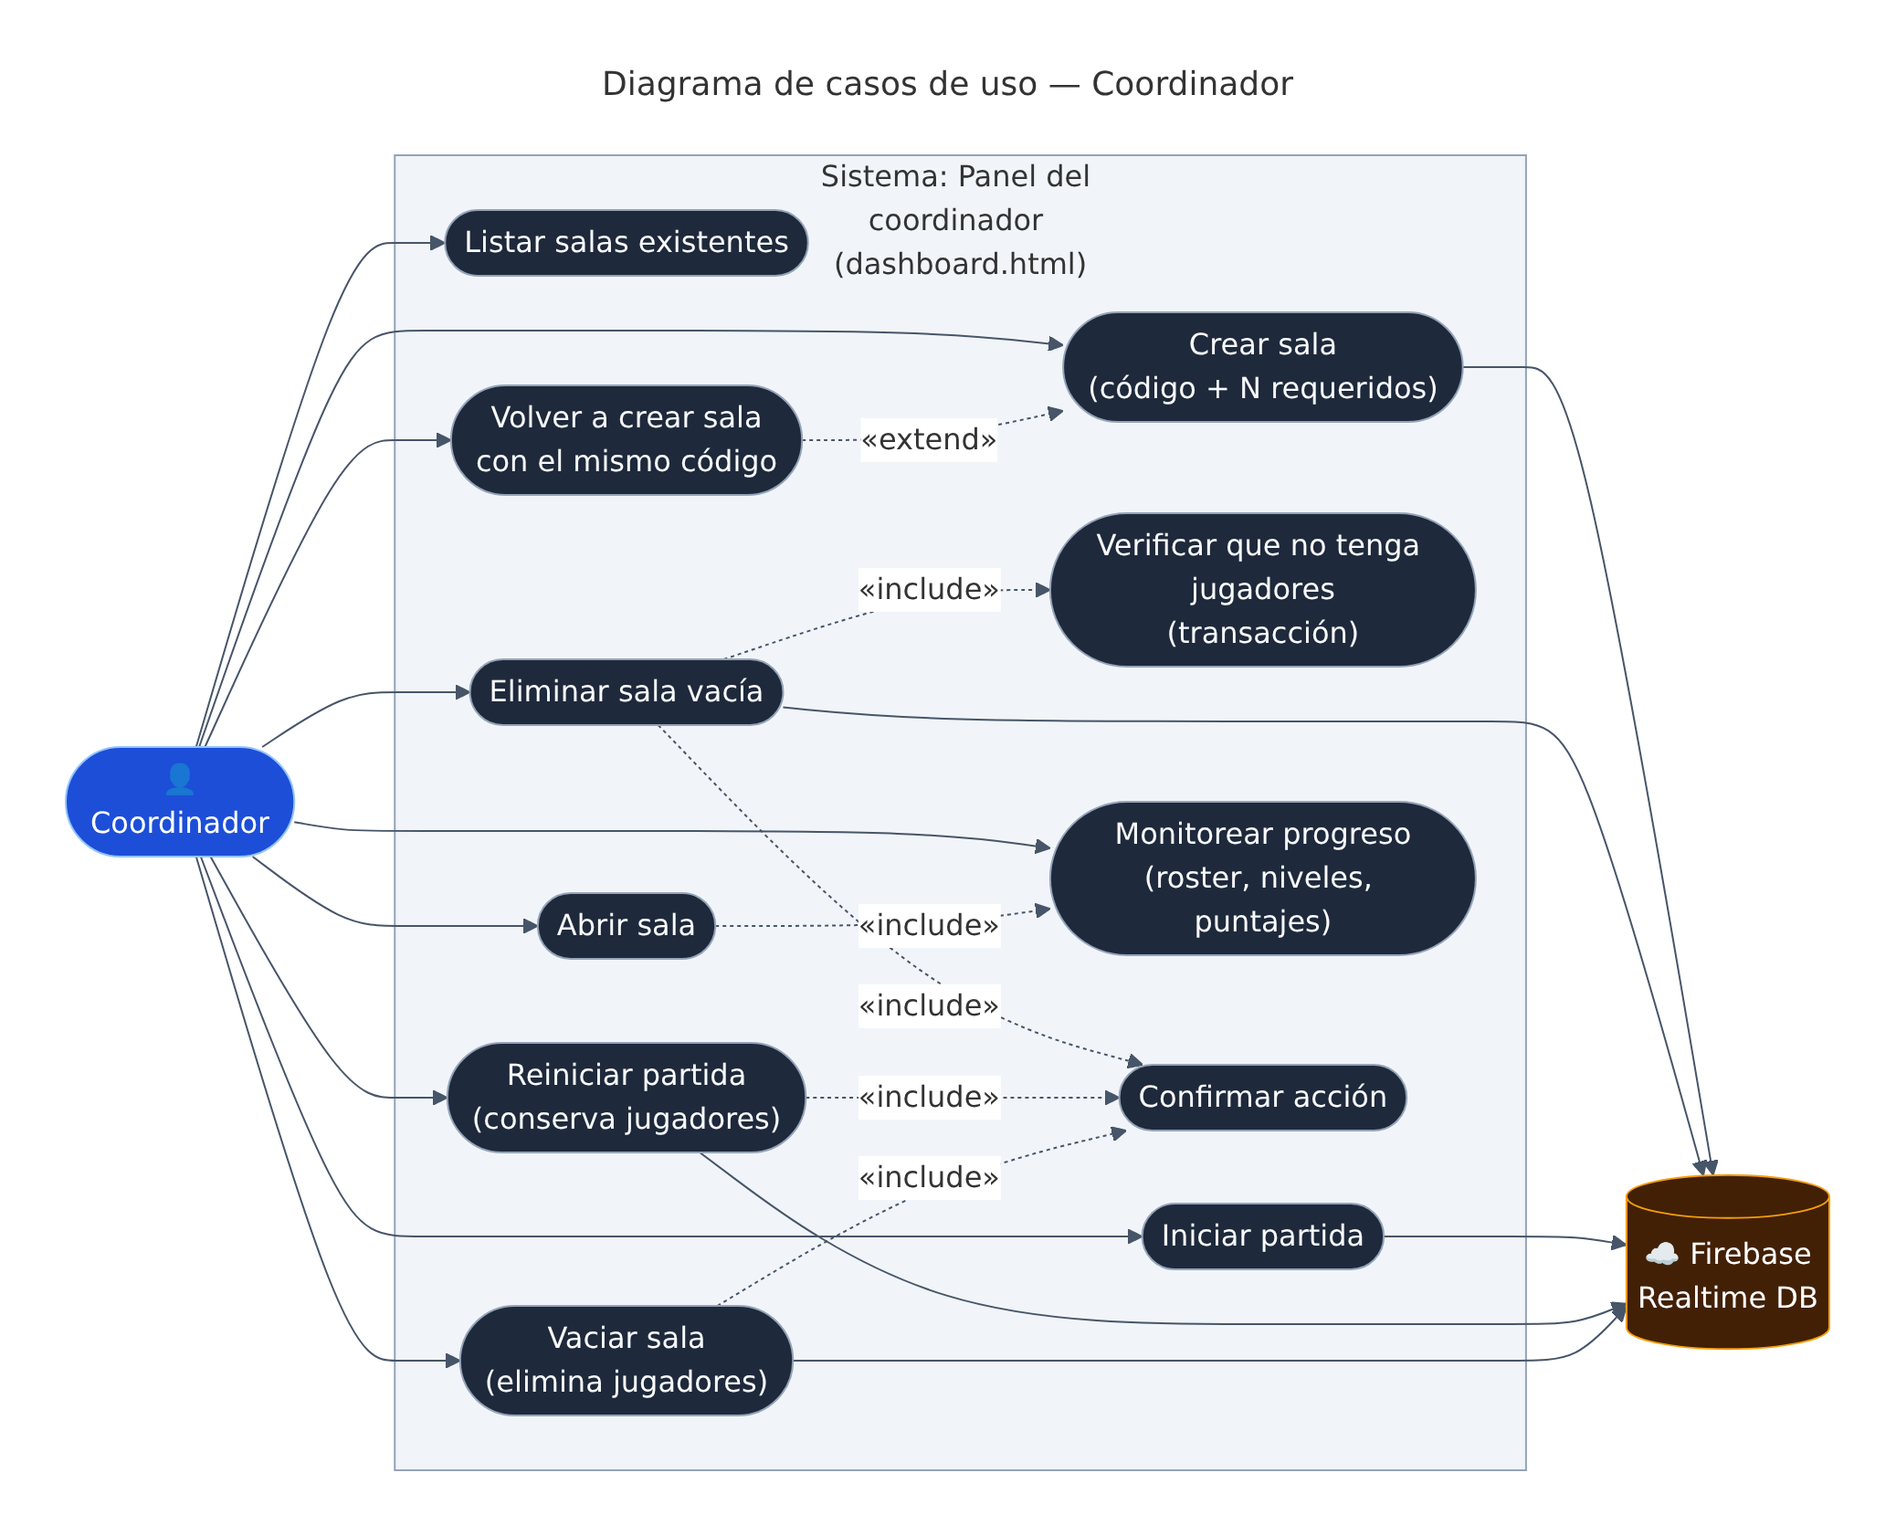
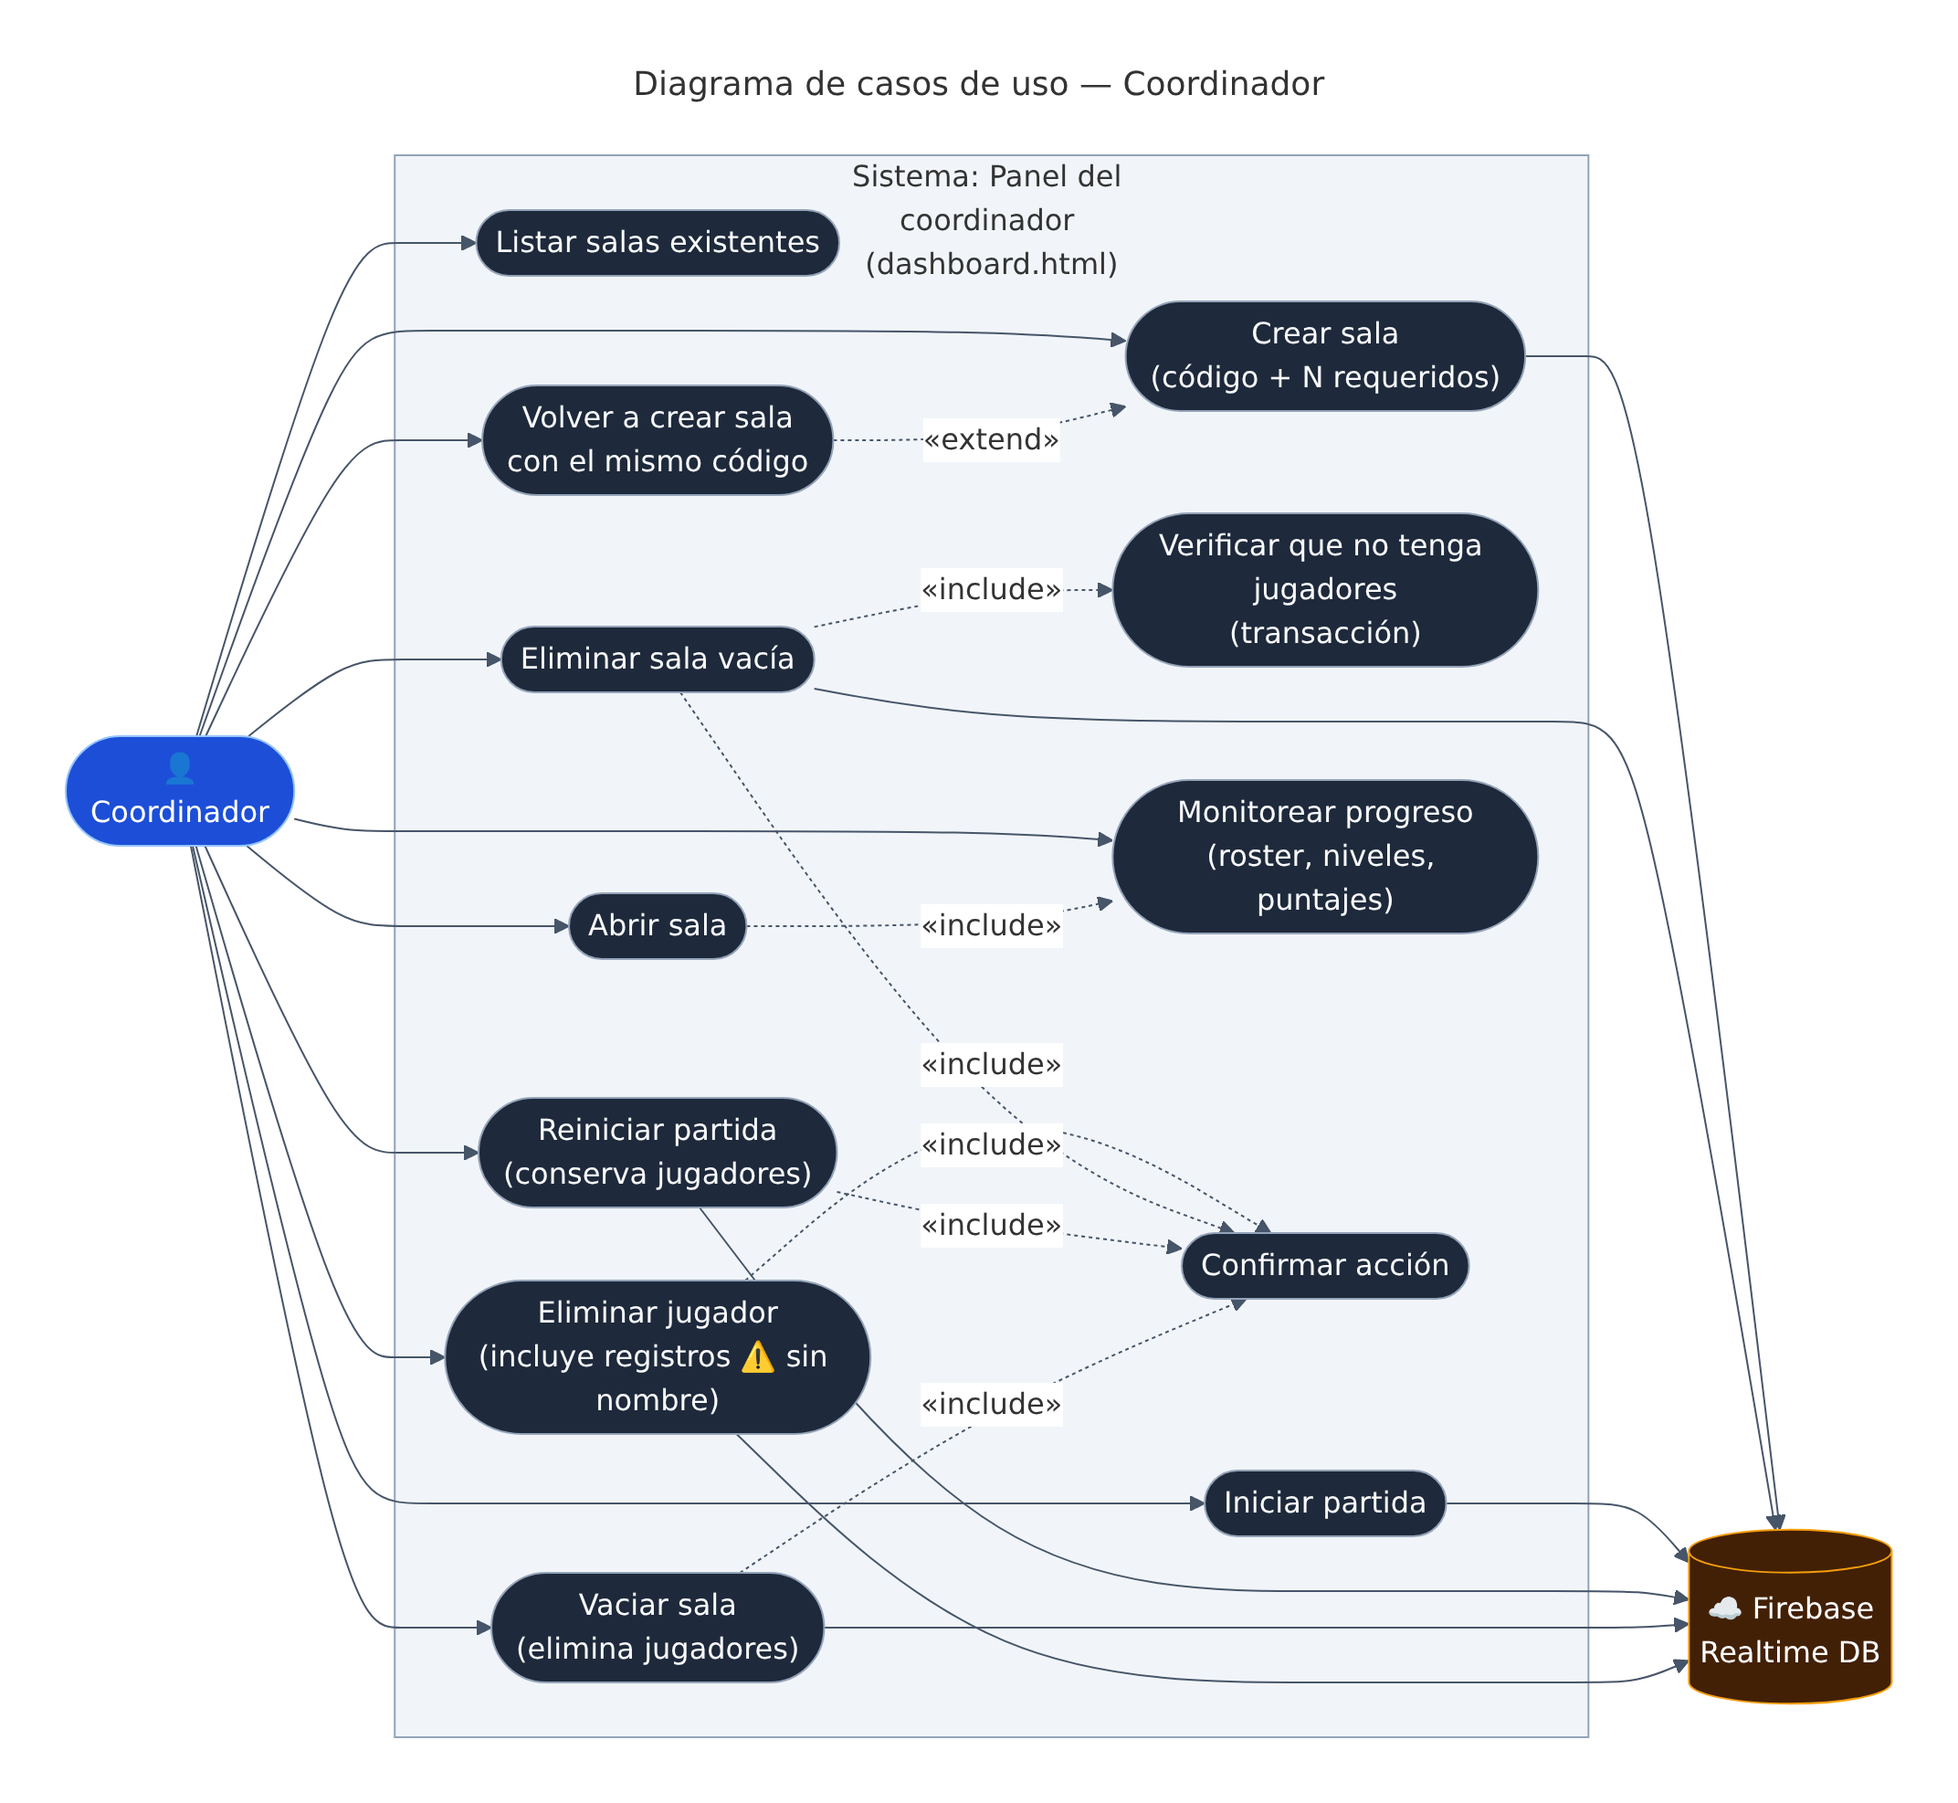
Fix ghost players and add player management to the dashboard
- Root cause: the onDisconnect -> connected=false write stayed armed after a
  player was removed (e.g. 'Vaciar sala'), so closing that tab re-created
  players/{id} as {connected:false}; a refresh with a stale session could do
  the same via markConnected.
- Presence is now armed (trackPresence) only after the live room data shows
  the player exists, re-armed after a network drop, and cancelled
  (stopPresence) when the player or room disappears.
- database.rules.json rejects player records without a non-empty name.
- Dashboard roster: connection column, per-player delete button, and
  nameless records flagged as 'sin nombre'.
- Docs: decision #16, dashboard section, README, use-case diagram.

Claude-Session: https://claude.ai/code/session_01GpHXZPyw9LSKMeBCVETu6X

diff --git a/js/dashboard.js b/js/dashboard.js
@@ -6,7 +6,7 @@ import { db, isConfigured } from "./firebase.js";
 import {
   ref, update, get, remove, runTransaction
 } from "https://www.gstatic.com/firebasejs/10.7.1/firebase-database.js";
-import { createRoom, deleteRoomIfEmpty, normalizeRoomId } from "./room.js";
+import { createRoom, deleteRoomIfEmpty, removePlayer, normalizeRoomId } from "./room.js";
 import { subscribeRoom, subscribeRooms, everyoneCompleted } from "./sync.js";
 import { saveHostRoom, loadHostRoom, clearHostRoom } from "./session.js";
 import { showScreen, toast, $ } from "./ui.js";
@@ -218,17 +218,23 @@ function render(data) {
   deleteBtn.disabled = total > 0;
   deleteBtn.title = total > 0 ? "Vaciá la sala antes de eliminarla" : "";
 
-  renderRoster(list);
+  renderRoster(players);
 }
 
-function renderRoster(list) {
+function renderRoster(players) {
   const tbody = $("#dash-roster");
   tbody.innerHTML = "";
-  const sorted = [...list].sort((a, b) => (a.joined_at || 0) - (b.joined_at || 0));
+  const sorted = Object.entries(players).sort(
+    ([, a], [, b]) => (a.joined_at || 0) - (b.joined_at || 0)
+  );
 
-  sorted.forEach((p, i) => {
+  sorted.forEach(([pid, p], i) => {
     const tr = document.createElement("tr");
     if (p.connected === false) tr.classList.add("offline");
+    // A record without a name never went through registration (e.g. a stray
+    // write to a removed player): flag it so the coordinator can delete it.
+    const ghost = !p.name;
+    if (ghost) tr.classList.add("ghost");
 
     let detail = "";
     if (p.level_2_game === "serif") detail = `serif · ${p.level_2_score || 0} pts`;
@@ -236,13 +242,32 @@ function renderRoster(list) {
 
     tr.innerHTML = `
       <td>${i + 1}</td>
-      <td>${escapeHtml(p.name || "")}</td>
+      <td>${ghost ? "⚠ <em>sin nombre</em>" : escapeHtml(p.name)}</td>
+      <td title="${p.connected === false ? "Desconectado" : "Conectado"}">${p.connected === false ? "⚫" : "🟢"}</td>
       <td>${p.level_1_completed ? "✅" : "⏳"}</td>
       <td>${p.level_2_completed ? "✅" : "⏳"}</td>
       <td>${p.level_2_game || "—"}</td>
-      <td>${detail || "—"}</td>`;
+      <td>${detail || "—"}</td>
+      <td><button class="btn danger roster-del" title="Eliminar jugador">🗑</button></td>`;
+    tr.querySelector(".roster-del").addEventListener("click", () =>
+      deletePlayer(pid, ghost ? "(sin nombre)" : p.name)
+    );
     tbody.appendChild(tr);
   });
+}
+
+async function deletePlayer(pid, label) {
+  if (!state.roomId) return;
+  const ok = window.confirm(
+    `¿Eliminar al jugador ${label} de la sala ${state.roomId}?\n\nSu celular vuelve a la pantalla de registro y puede unirse de nuevo mientras la partida no haya empezado.`
+  );
+  if (!ok) return;
+  try {
+    await removePlayer(state.roomId, pid);
+    toast(`Jugador ${label} eliminado`, "success");
+  } catch (err) {
+    toast("Error al eliminar el jugador: " + err.message, "error");
+  }
 }
 
 function escapeHtml(str) {

diff --git a/js/room.js b/js/room.js
@@ -1,7 +1,7 @@
 // Room + player data operations against Firebase Realtime Database.
 import { db } from "./firebase.js";
 import {
-  ref, set, get, update, onDisconnect, serverTimestamp, runTransaction
+  ref, set, get, update, remove, onDisconnect, serverTimestamp, runTransaction
 } from "https://www.gstatic.com/firebasejs/10.7.1/firebase-database.js";
 import { randomId, saveSession } from "./session.js";
 
@@ -89,18 +89,32 @@ export async function joinRoom(roomId, rawName) {
     last_changed: serverTimestamp()
   });
 
-  // Presence: flag the player as disconnected if the socket drops.
-  onDisconnect(ref(db, `rooms/${roomId}/players/${playerId}/connected`)).set(false);
-
+  // Presence (connected + onDisconnect) is armed by the app once the live room
+  // data confirms this player exists — see trackPresence().
   saveSession({ roomId, playerId, name });
   return { ok: true, playerId };
 }
 
-export async function markConnected(roomId, playerId) {
-  await update(ref(db, `rooms/${roomId}/players/${playerId}`), {
-    connected: true,
-    last_changed: serverTimestamp()
-  });
+// Presence: marks the player connected and arms onDisconnect -> connected=false.
+// Only call it when the live room data shows the player exists: writing to a
+// removed player would re-create it as a nameless "ghost" record (the
+// database rules also reject player records without a name).
+export async function trackPresence(roomId, playerId) {
+  const playerRef = ref(db, `rooms/${roomId}/players/${playerId}`);
+  await onDisconnect(ref(db, `rooms/${roomId}/players/${playerId}/connected`)).set(false);
+  await update(playerRef, { connected: true, last_changed: serverTimestamp() });
+}
+
+// Cancels the pending onDisconnect write. Used when the player was removed from
+// the room, so closing the tab later does not re-create a ghost record.
+export async function stopPresence(roomId, playerId) {
+  await onDisconnect(ref(db, `rooms/${roomId}/players/${playerId}/connected`)).cancel();
+}
+
+// Coordinator: removes one player from the room. Their device returns to the
+// registration screen.
+export async function removePlayer(roomId, playerId) {
+  await remove(ref(db, `rooms/${roomId}/players/${playerId}`));
 }
 
 // FR-2.3 / 7.3.3: persist an individual level completion.

diff --git a/js/app.js b/js/app.js
@@ -5,7 +5,7 @@
 import { isConfigured } from "./firebase.js";
 import { subscribeRoom, activePlayers, everyoneCompleted } from "./sync.js";
 import {
-  joinRoom, markLevelComplete, completeLevel1, markConnected, normalizeRoomId
+  joinRoom, markLevelComplete, completeLevel1, trackPresence, stopPresence, normalizeRoomId
 } from "./room.js";
 import { loadSession, clearSession } from "./session.js";
 import { showScreen, toast, $ } from "./ui.js";
@@ -28,6 +28,7 @@ const state = {
   level2NeedsRestart: false,
   gameStartedSeen: false,
   assigning: false,
+  presenceFor: null, // "roomId/playerId" whose presence is currently armed
   unsub: null
 };
 
@@ -43,7 +44,6 @@ function boot() {
     state.roomId = session.roomId;
     state.playerId = session.playerId;
     state.name = session.name;
-    markConnected(state.roomId, state.playerId).catch(() => {});
     startSubscription();
   } else {
     showScreen("screen-register");
@@ -100,6 +100,8 @@ function startSubscription() {
 
 function onData(data) {
   if (!data) {
+    stopPresence(state.roomId, state.playerId).catch(() => {});
+    state.presenceFor = null;
     clearSession();
     toast("La sala no existe o fue cerrada", "error");
     showScreen("screen-register");
@@ -109,10 +111,22 @@ function onData(data) {
 
   const me = (data.players && data.players[state.playerId]) || null;
   if (!me) {
+    // Removed by the coordinator: cancel the pending onDisconnect write so it
+    // cannot re-create this player as a nameless record.
+    stopPresence(state.roomId, state.playerId).catch(() => {});
+    state.presenceFor = null;
     clearSession();
     toast("Tu registro ya no está en la sala", "error");
     showScreen("screen-register");
     return;
+  }
+
+  // Arm presence once per session, and again if a network drop already fired
+  // onDisconnect (connected=false) while this tab kept running.
+  const presenceKey = state.roomId + "/" + state.playerId;
+  if (state.presenceFor !== presenceKey || me.connected === false) {
+    state.presenceFor = presenceKey;
+    trackPresence(state.roomId, state.playerId).catch(() => {});
   }
 
   updateHeader(me);

diff --git a/dashboard.html b/dashboard.html
@@ -63,10 +63,12 @@
             <tr>
               <th>#</th>
               <th>Nombre</th>
+              <th>Conexión</th>
               <th>L1</th>
               <th>L2</th>
               <th>Juego</th>
               <th>Detalle</th>
+              <th></th>
             </tr>
           </thead>
           <tbody id="dash-roster"></tbody>

diff --git a/css/dashboard.css b/css/dashboard.css
@@ -23,3 +23,5 @@
 .room-item .row { gap: 8px; }
 .room-item .btn { min-height: 40px; padding: 8px 12px; }
 .room-empty { color: var(--muted); font-size: 0.9rem; }
+.roster-del { min-height: 34px; padding: 4px 10px; }
+.roster tr.ghost td { color: var(--warning); }

diff --git a/system_design_architecture.md b/system_design_architecture.md
@@ -79,7 +79,7 @@ The structure is flat and lightweight to allow low-latency real-time synchroniza
 | `level_2_game` | Assigned mini-game: `"serif"` ("I Shot The Serif") or `"vector"` ("Shape Type"). Self-assigned by the client when it clears Level 1 (section 7.1). |
 | `level_2_score` | Score accumulated in "I Shot The Serif" (+100 per correct serif). |
 | `level_2_precision` | Precision achieved in "Shape Type" (≥ 85% required to pass). |
-| `connected` | Presence flag maintained via `onDisconnect()`; `false` when the device drops offline. |
+| `connected` | Presence flag maintained via `onDisconnect()`; `false` when the device drops offline. Armed by the client only after the live data confirms the player exists, re-armed if a network drop already set it to `false`, and cancelled when the player is removed (decision #16). |
 | `last_changed` | Timestamp (epoch) of the player's last update. |
 
 > **Note:** Use a single timestamp format everywhere (epoch via `ServerValue.TIMESTAMP` is recommended).
@@ -477,6 +477,7 @@ Big-screen panel used by the facilitator and the only place with room-level cont
 * **Start round:** writes `started: true`, unlocking Level 1.
 * **Restart round:** clears every player's progress (`level_1_completed`, `level_2_completed`, assigned mini-game, score/precision) and returns the room to the lobby (`current_phase: 1`, `started: false`), **keeping the registered players** so the same group can replay.
 * **Wipe room:** deletes all players and returns to the lobby, ready for a brand-new group.
+* **Player management:** the roster shows each player's connection (🟢 / ⚫) and a **🗑** button to remove that player (with confirmation); their device returns to the registration screen. Records without a `name` are flagged **⚠ sin nombre** so stray entries can be removed.
 * **Room management:** the setup screen lists every room (code, player count, status) with **Open** and **🗑 Delete** actions, and the room view has **← Salas** (back to the list) and **🗑 Eliminar sala**. A room can be deleted **only when it has no players** (wipe it first); the button is disabled otherwise, and the delete runs as a `transaction()` (`deleteRoomIfEmpty()` in `js/room.js`) that aborts if someone joined in the meantime. After deleting, the code stays in the input so the room can be **re-created** with the same code via **Crear sala**.
 
 Both reset actions require confirmation. When the room returns to the lobby, the players' open tabs follow automatically and each level **initialises fresh** on the next start: the level controllers are *restarted*, not re-created, so there are no duplicate event handlers and no page reload is needed.
@@ -504,3 +505,4 @@ Consolidated record of the design points that were previously left open, togethe
 | 13 | **Level 1 tuning** | With 2 agents and a toast on every capture, the restart toast covered the controls and the game could not be played | **1 agent** (`AGENT_COUNT = 1`) and **no toasts at all in Level 1**: every message (capture, power-up results and warnings, win) goes to the HUD status line, colour-coded, reverting to the default hint after ~1.8 s. |
 | 14 | **"I Shot The Serif" errors** | Wrong taps had no consequence beyond lost time | **Max 2 errors per round** (`MAX_ERRORS = 2`): the 2nd wrong tap restarts the round with a new grid (score, errors and timer reset). An `❌ n/2` counter is shown in the header. |
 | 15 | **Room management** | Rooms could only be created or opened by code; there was no way to see or remove them | The dashboard lists all rooms and can **delete empty rooms only** (transactional check, so a room never disappears with players inside). A deleted room can be re-created with the same code. |
+| 16 | **Ghost players** | A nameless player appeared in a room without anyone registering. Cause: the `onDisconnect → connected=false` write stayed armed after the player was removed (e.g. *Vaciar sala*), so closing that tab later re-created `players/{id}` as `{connected: false}`; a refresh with a stale session could do the same with `connected: true` | (1) Presence is armed (`trackPresence`) only once the live data shows the player exists, and cancelled (`stopPresence`) when the player or room disappears. (2) `database.rules.json` rejects player records without a non-empty `name`. (3) The dashboard roster flags nameless records and lets the coordinator **remove any player**. |

diff --git a/README.md b/README.md
@@ -56,6 +56,10 @@ export const firebaseConfig = {
 but insecure. Paste it into **Realtime Database → Rules** for a quick start, or tighten it
 (e.g. restrict by room) before exposing the app publicly.
 
+It also **rejects player records without a `name`**, so a stray write to a removed player
+(e.g. a delayed `onDisconnect`) can never re-create it as a nameless "ghost" player.
+**Re-publish the rules in the Firebase console whenever this file changes.**
+
 ## 4. Run locally
 
 ES modules require an HTTP server (opening the file directly with `file://` will not work).
@@ -114,6 +118,10 @@ above the board (no pop-up notifications over the controls).
 - **🗑 Eliminar sala**: available from the room list or inside a room, only when the room
   has **no players** (use *Vaciar sala* first). The code stays filled in, so **Crear sala**
   re-creates it with the same code.
+
+- **🗑 per player** (roster): removes one player from the room; their phone returns to the
+  registration screen. Nameless records are flagged **⚠ sin nombre** so stray entries can be
+  cleaned up. The roster also shows each player's connection (🟢 / ⚫).
 
 The setup screen lists every existing room (players and status) with *Abrir* and 🗑.
 Both reset actions ask for confirmation. When the room returns to the lobby, the
